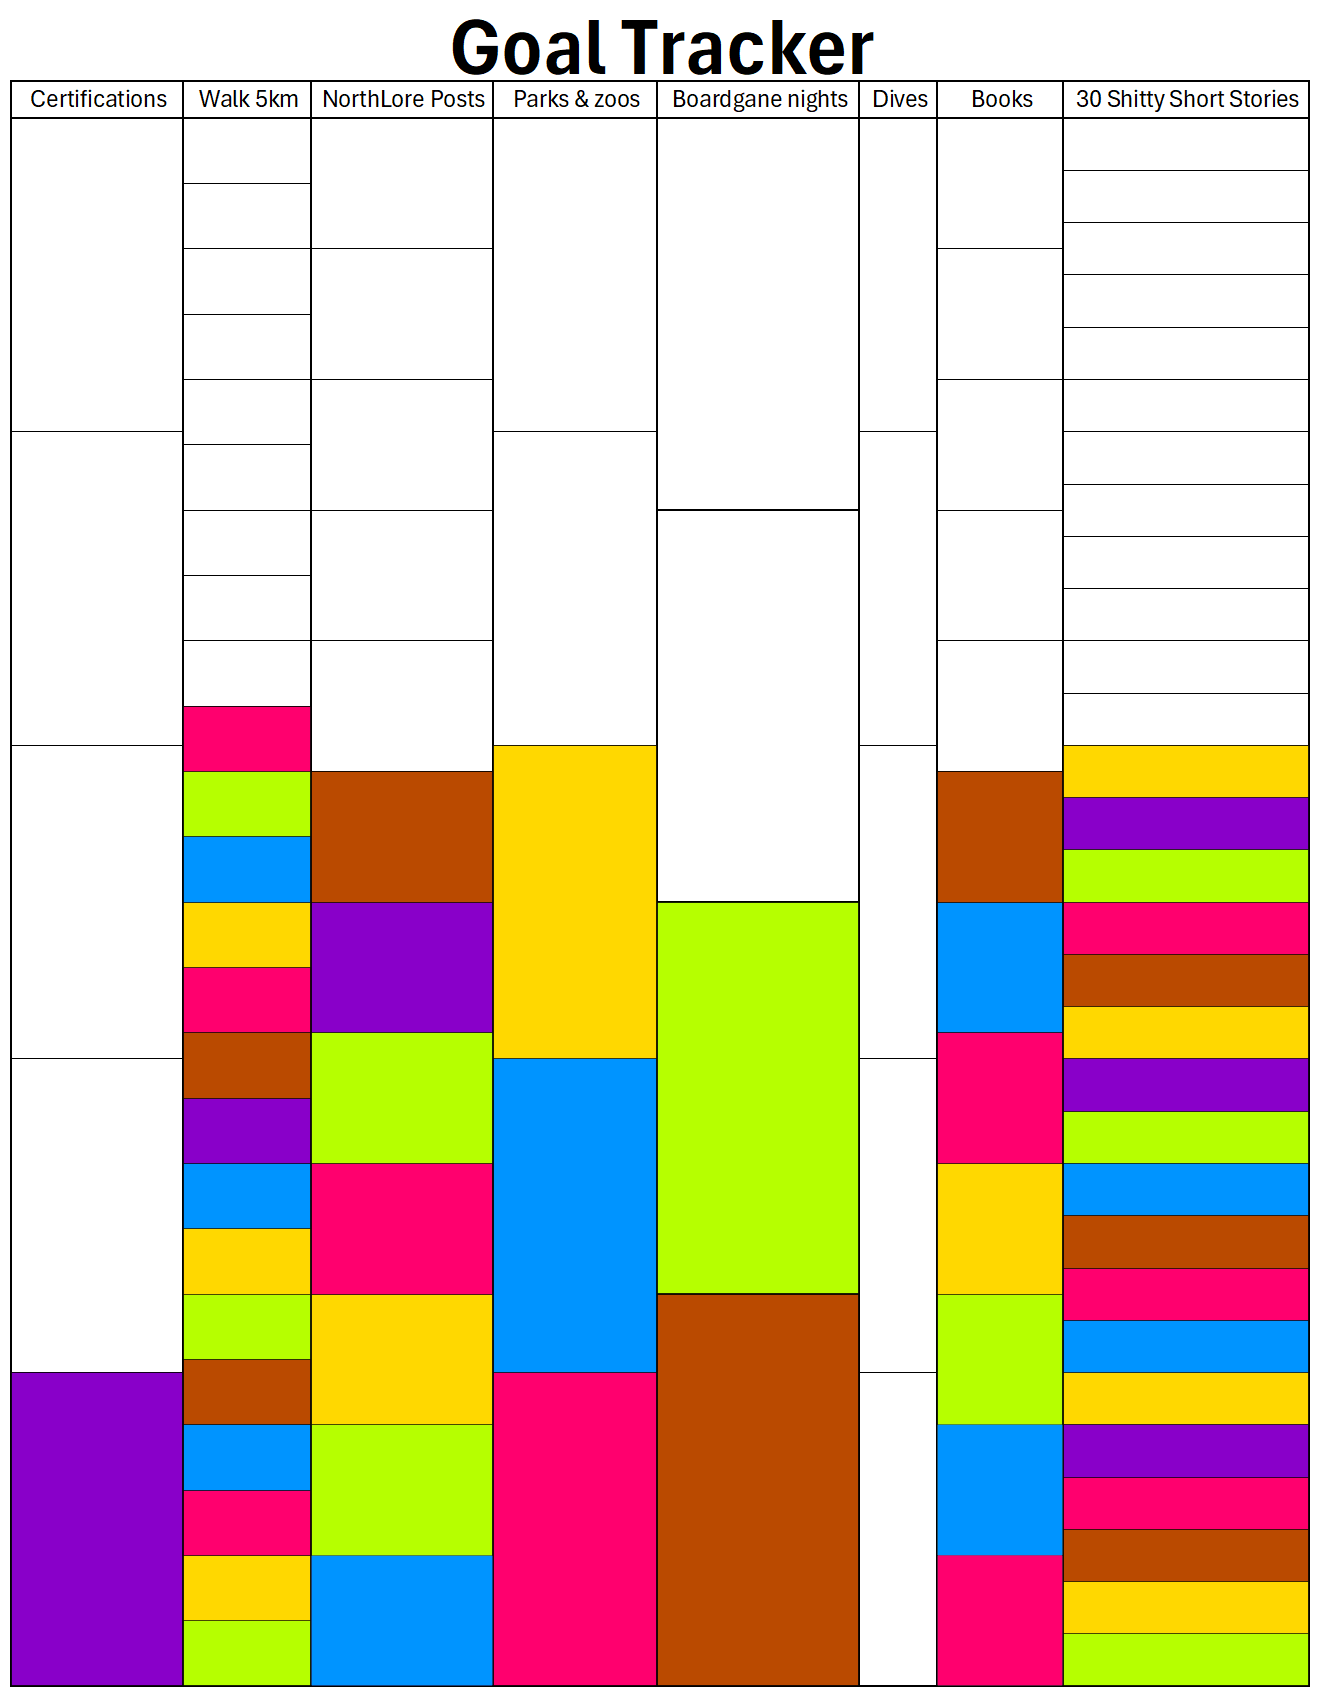
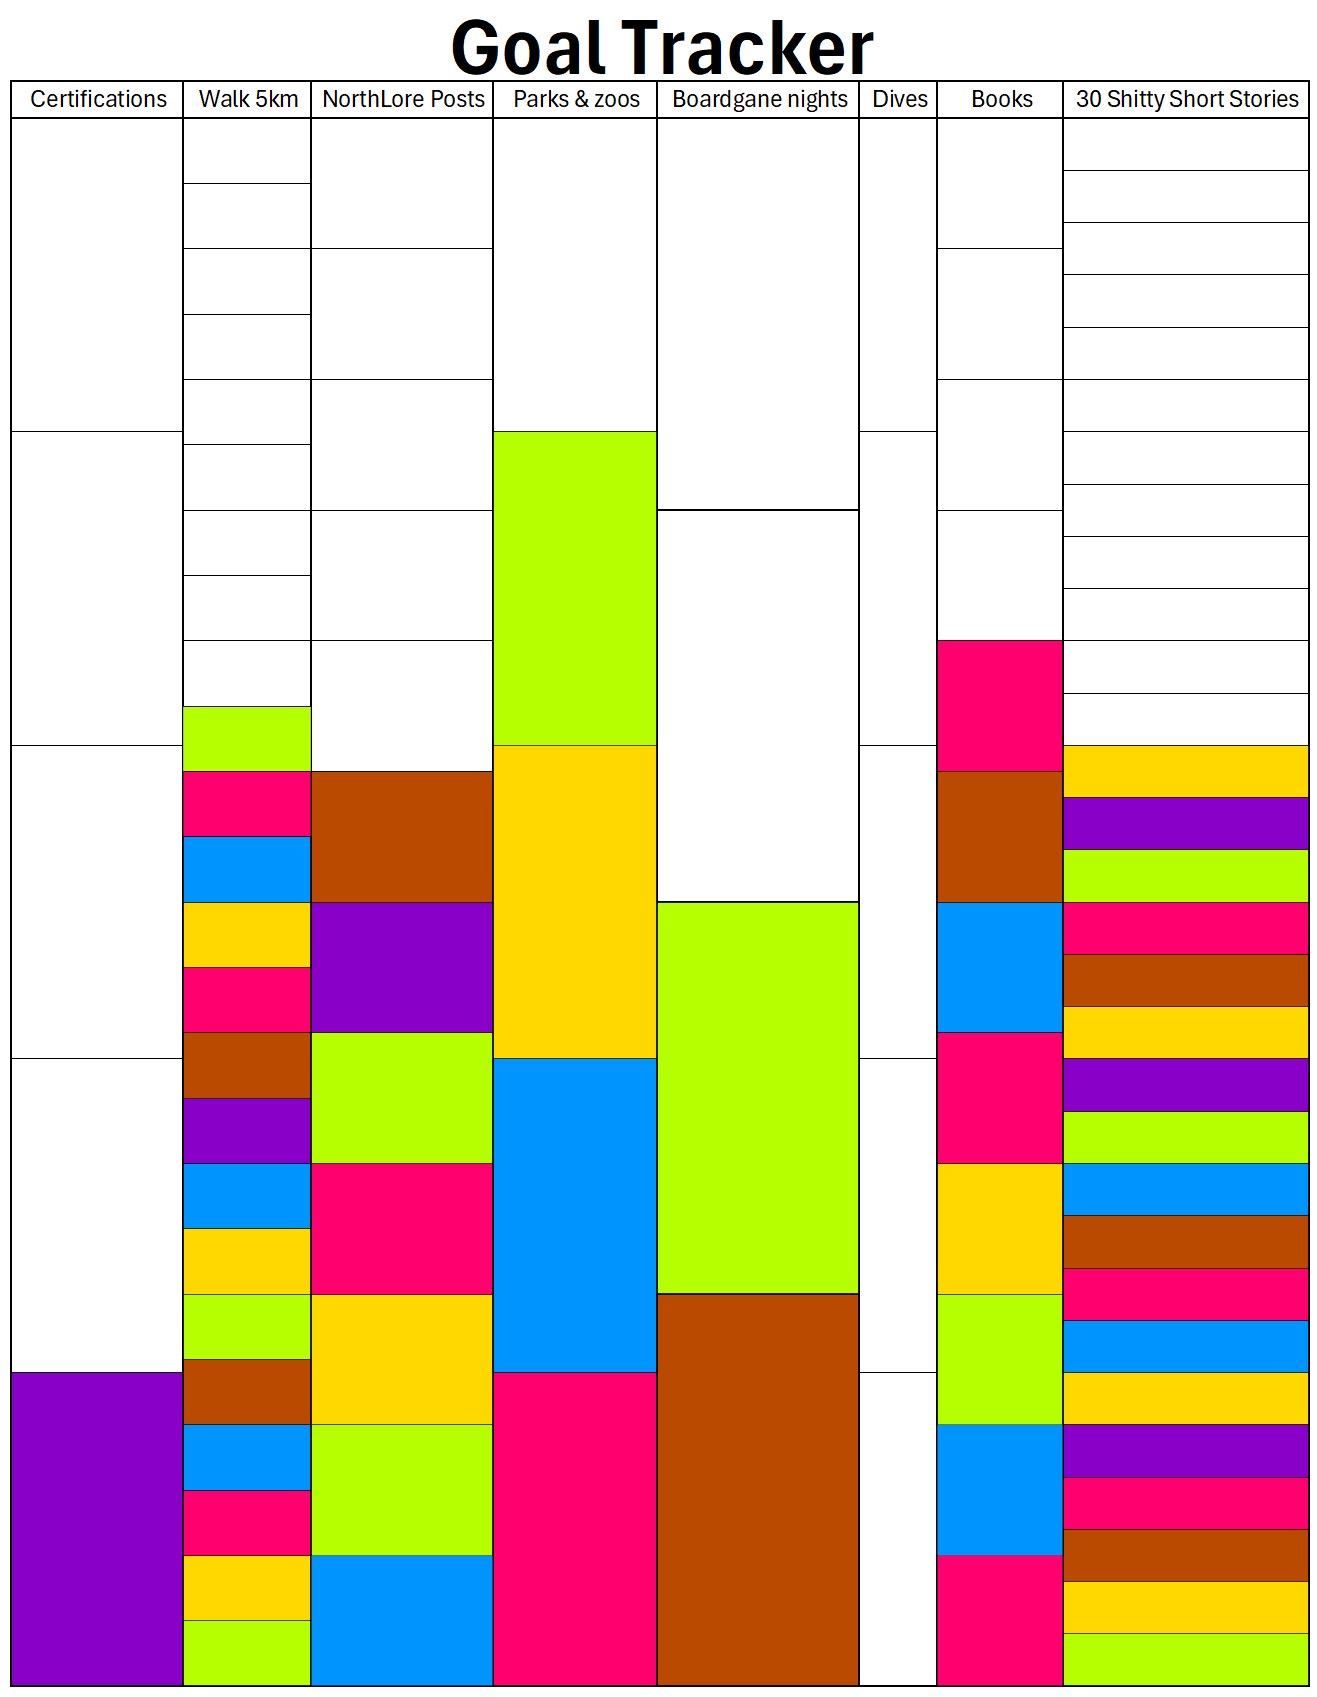
Bingo

Changed region(s): [[0.3736, 0.2499, 0.4981, 0.4372], [0.1245, 0.406, 0.2491, 0.4997], [0.6849, 0.3748, 0.8094, 0.4685]]

diff --git a/src/posts/the_forge/2026Bingo.md b/src/posts/the_forge/2026Bingo.md
@@ -66,6 +66,8 @@ Good luck, and have fun!
 ## TLDR; Milestones reached
 | Date  | Goal              | Note                                     |
 | ----- | ----              | ----                                     |
+| 11/10 | Read Books        | Skammer Tegnet                           |
+| 10/10 | Parks & Zoos      | Aalborg Zoo                              |
 | 04/10 | 5K walks          | Wasawasa hytten                          |
 | 03/10 | Boardgame Night   | Family Brunch                            |
 | 01/10 | NorthLore Posts   | Happy Birthday                           |
